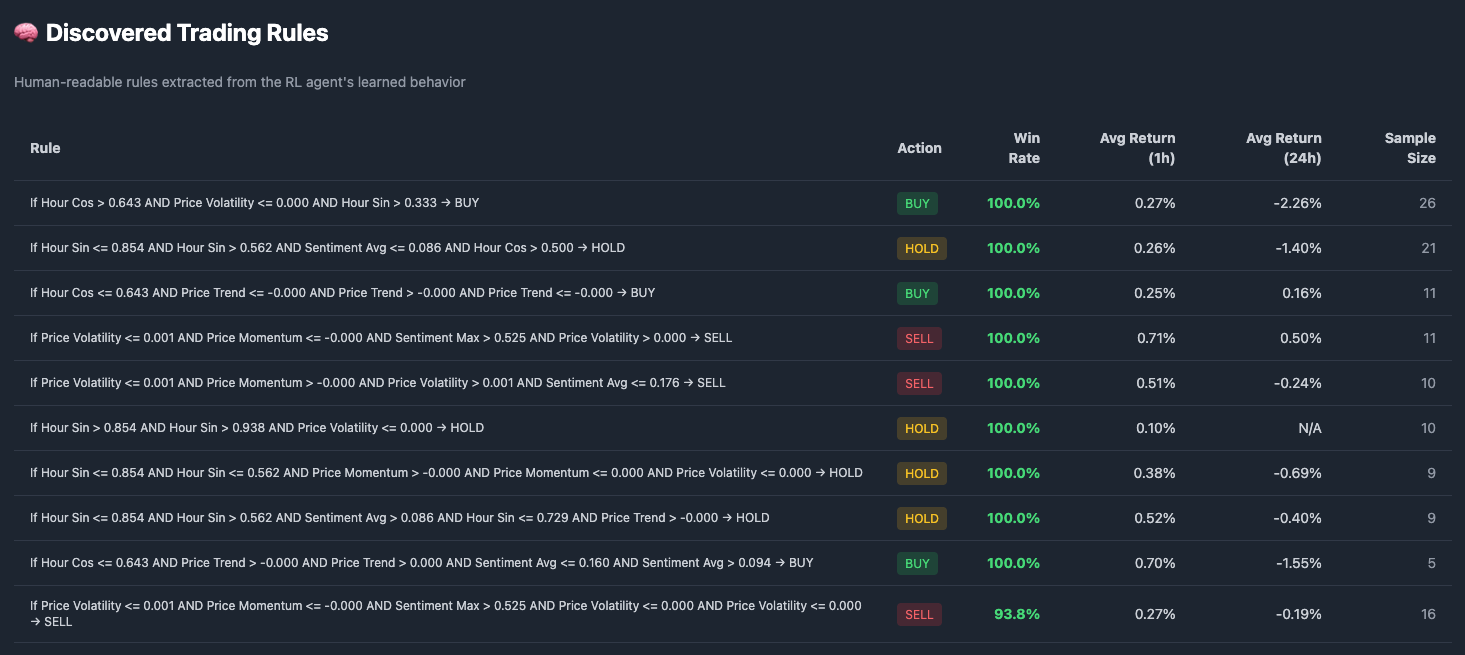
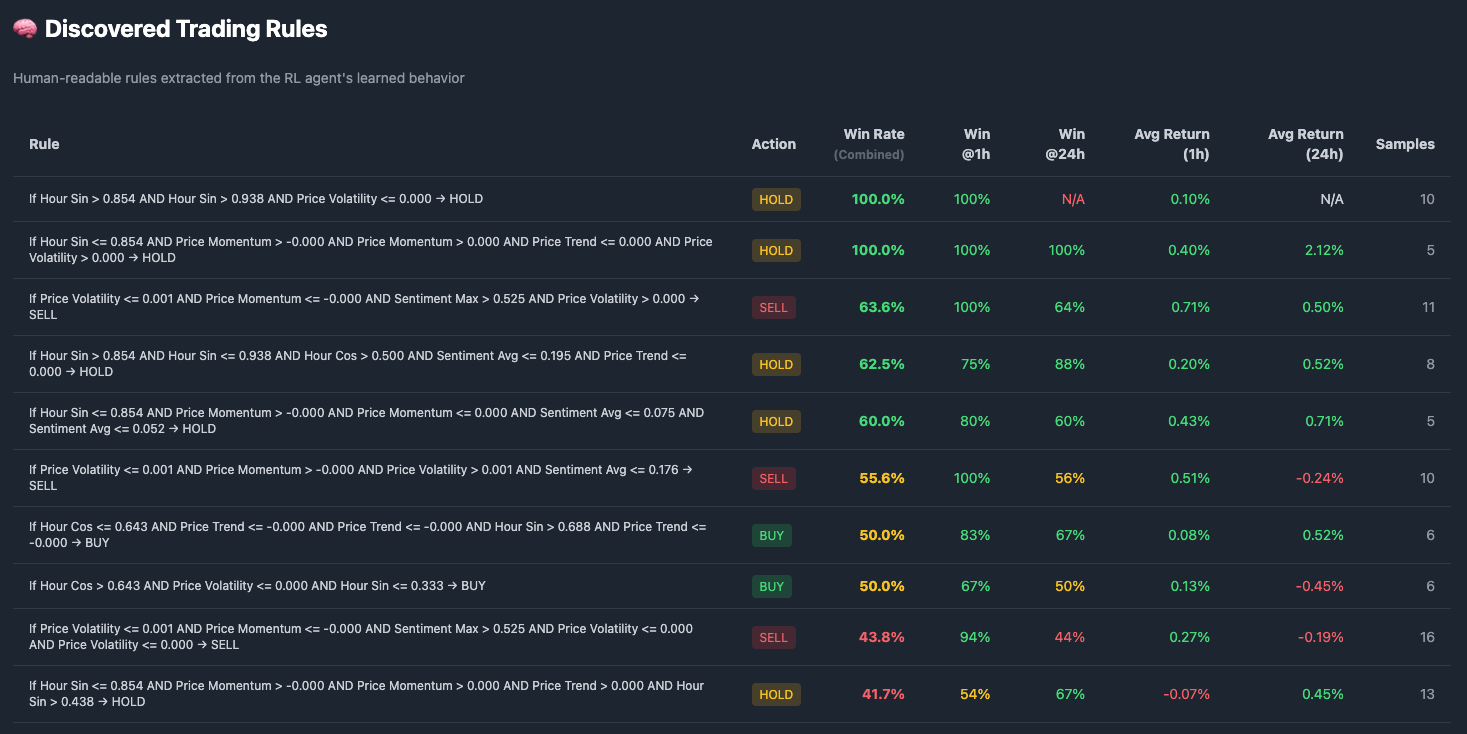
omg fixed so much

diff --git a/templates/sol_tracker.html b/templates/sol_tracker.html
@@ -1678,15 +1678,17 @@
                   <tr class="border-b border-gray-700">
                     <th class="text-left py-3 px-4 text-gray-300">Rule</th>
                     <th class="text-left py-3 px-4 text-gray-300">Action</th>
-                    <th class="text-right py-3 px-4 text-gray-300">Win Rate</th>
+                    <th class="text-right py-3 px-4 text-gray-300" title="Win rate at BOTH 1h AND 24h (must profit at both horizons)">Win Rate<br><span class="text-xs text-gray-500">(Combined)</span></th>
+                    <th class="text-right py-3 px-4 text-gray-300">Win @1h</th>
+                    <th class="text-right py-3 px-4 text-gray-300">Win @24h</th>
                     <th class="text-right py-3 px-4 text-gray-300">Avg Return (1h)</th>
                     <th class="text-right py-3 px-4 text-gray-300">Avg Return (24h)</th>
-                    <th class="text-right py-3 px-4 text-gray-300">Sample Size</th>
+                    <th class="text-right py-3 px-4 text-gray-300">Samples</th>
                   </tr>
                 </thead>
                 <tbody id="rules-tbody">
                   <tr>
-                    <td colspan="6" class="text-center py-8 text-gray-400">Loading rules...</td>
+                    <td colspan="8" class="text-center py-8 text-gray-400">Loading rules...</td>
                   </tr>
                 </tbody>
               </table>
@@ -3168,14 +3170,24 @@
                           }
                       }
                       
-                      tbody.innerHTML = `<tr><td colspan="6" class="text-center py-8 text-gray-400">${diagnosticMsg}</td></tr>`;
+                      tbody.innerHTML = `<tr><td colspan="8" class="text-center py-8 text-gray-400">${diagnosticMsg}</td></tr>`;
                       return;
                   }
                   
                   let html = '';
                   data.rules.forEach(rule => {
+                      // Combined win rate color (must profit at BOTH 1h AND 24h)
                       const winRateColor = rule.win_rate >= 0.6 ? 'text-green-400' : 
                                           rule.win_rate >= 0.5 ? 'text-yellow-400' : 'text-red-400';
+                      // 1h win rate color
+                      const winRate1hColor = rule.win_rate_1h >= 0.6 ? 'text-green-400' : 
+                                            rule.win_rate_1h >= 0.5 ? 'text-yellow-400' : 'text-red-400';
+                      // 24h win rate color
+                      const winRate24hColor = rule.win_rate_24h >= 0.6 ? 'text-green-400' : 
+                                             rule.win_rate_24h >= 0.5 ? 'text-yellow-400' : 'text-red-400';
+                      // Return colors (green if positive, red if negative)
+                      const return1hColor = rule.avg_return_1h > 0 ? 'text-green-400' : rule.avg_return_1h < 0 ? 'text-red-400' : 'text-gray-300';
+                      const return24hColor = rule.avg_return_24h > 0 ? 'text-green-400' : rule.avg_return_24h < 0 ? 'text-red-400' : 'text-gray-300';
                       
                       html += `
                         <tr class="border-b border-gray-700 hover:bg-gray-700/30">
@@ -3187,9 +3199,11 @@
                               'bg-yellow-500/20 text-yellow-400'
                             }">${rule.action}</span>
                           </td>
-                          <td class="py-3 px-4 text-right ${winRateColor} font-bold">${(rule.win_rate * 100).toFixed(1)}%</td>
-                          <td class="py-3 px-4 text-right text-gray-300">${rule.avg_return_1h !== null ? (rule.avg_return_1h * 100).toFixed(2) + '%' : 'N/A'}</td>
-                          <td class="py-3 px-4 text-right text-gray-300">${rule.avg_return_24h !== null ? (rule.avg_return_24h * 100).toFixed(2) + '%' : 'N/A'}</td>
+                          <td class="py-3 px-4 text-right ${winRateColor} font-bold" title="Profitable at BOTH 1h AND 24h">${(rule.win_rate * 100).toFixed(1)}%</td>
+                          <td class="py-3 px-4 text-right ${winRate1hColor} text-sm">${rule.win_rate_1h !== null ? (rule.win_rate_1h * 100).toFixed(0) + '%' : 'N/A'}</td>
+                          <td class="py-3 px-4 text-right ${winRate24hColor} text-sm">${rule.win_rate_24h !== null ? (rule.win_rate_24h * 100).toFixed(0) + '%' : 'N/A'}</td>
+                          <td class="py-3 px-4 text-right ${return1hColor}">${rule.avg_return_1h !== null ? (rule.avg_return_1h * 100).toFixed(2) + '%' : 'N/A'}</td>
+                          <td class="py-3 px-4 text-right ${return24hColor}">${rule.avg_return_24h !== null ? (rule.avg_return_24h * 100).toFixed(2) + '%' : 'N/A'}</td>
                           <td class="py-3 px-4 text-right text-gray-400">${rule.sample_size || 0}</td>
                         </tr>
                       `;
@@ -3201,14 +3215,14 @@
                   console.error('RL rules API error:', data.error);
                   const tbody = document.getElementById('rules-tbody');
                   if (tbody) {
-                      tbody.innerHTML = `<tr><td colspan="6" class="text-center py-8 text-red-400">Error: ${data.error || 'Unknown error'}</td></tr>`;
+                      tbody.innerHTML = `<tr><td colspan="8" class="text-center py-8 text-red-400">Error: ${data.error || 'Unknown error'}</td></tr>`;
                   }
               }
           } catch (error) {
               console.error('Error fetching discovered rules:', error);
               const tbody = document.getElementById('rules-tbody');
               if (tbody) {
-                  tbody.innerHTML = '<tr><td colspan="6" class="text-center py-8 text-red-400">Error loading rules. Check console for details.</td></tr>';
+                  tbody.innerHTML = '<tr><td colspan="8" class="text-center py-8 text-red-400">Error loading rules. Check console for details.</td></tr>';
               }
           }
       }

diff --git a/rl_agent/explainability.py b/rl_agent/explainability.py
@@ -202,16 +202,35 @@ class RuleExtractor:
                     rule_mask = self._evaluate_rule(rule, action_features)
                     if rule_mask.sum() > 0:
                         rule_outcomes = action_outcomes_1h[rule_mask]
-                        # Convert numpy types to native Python types for SQLite
-                        rule['win_rate'] = float((rule_outcomes > threshold).mean())
-                        rule['avg_return_1h'] = float(rule_outcomes.mean())
-                        rule['sample_size'] = int(rule_mask.sum())
-                        # Only include 24h return if available
                         rule_24h_outcomes = action_outcomes_24h[rule_mask]
                         valid_24h = rule_24h_outcomes[~np.isnan(rule_24h_outcomes)]
+                        
+                        # Convert numpy types to native Python types for SQLite
+                        win_rate_1h = float((rule_outcomes > threshold).mean())
+                        rule['avg_return_1h'] = float(rule_outcomes.mean())
+                        rule['sample_size'] = int(rule_mask.sum())
+                        
+                        # Calculate 24h win rate and return
                         if len(valid_24h) > 0:
+                            win_rate_24h = float((valid_24h > threshold).mean())
                             rule['avg_return_24h'] = float(valid_24h.mean())
+                            # Combined win rate: positive return at BOTH 1h AND 24h
+                            # This is the TRUE win rate - only a "win" if profitable at both horizons
+                            both_positive = (rule_outcomes > threshold) & (~np.isnan(rule_24h_outcomes)) & (rule_24h_outcomes > threshold)
+                            valid_for_combined = (~np.isnan(rule_24h_outcomes)).sum()
+                            if valid_for_combined > 0:
+                                combined_win_rate = float(both_positive.sum() / valid_for_combined)
+                            else:
+                                combined_win_rate = win_rate_1h  # Fallback to 1h only
+                            # Use combined win rate as the primary "win_rate" - this is honest
+                            rule['win_rate'] = combined_win_rate
+                            rule['win_rate_1h'] = win_rate_1h
+                            rule['win_rate_24h'] = win_rate_24h
                         else:
+                            # No 24h data - use 1h win rate but mark it
+                            rule['win_rate'] = win_rate_1h
+                            rule['win_rate_1h'] = win_rate_1h
+                            rule['win_rate_24h'] = None
                             rule['avg_return_24h'] = None
                 
                 all_rules.extend(rules_1h)
@@ -358,7 +377,7 @@ class RuleExtractor:
         conn = sqlite3.connect(self.db_path)
         cursor = conn.cursor()
         
-        # Ensure discovered_rules table exists
+        # Ensure discovered_rules table exists with win_rate_1h and win_rate_24h columns
         cursor.execute("""
             CREATE TABLE IF NOT EXISTS discovered_rules (
                 id INTEGER PRIMARY KEY AUTOINCREMENT,
@@ -366,6 +385,8 @@ class RuleExtractor:
                 rule_conditions TEXT,
                 action TEXT NOT NULL,
                 win_rate REAL,
+                win_rate_1h REAL,
+                win_rate_24h REAL,
                 avg_return_1h REAL,
                 avg_return_24h REAL,
                 sample_size INTEGER,
@@ -375,6 +396,16 @@ class RuleExtractor:
                 last_validated_at DATETIME
             )
         """)
+        
+        # Add new columns if they don't exist (for existing tables)
+        try:
+            cursor.execute("ALTER TABLE discovered_rules ADD COLUMN win_rate_1h REAL")
+        except sqlite3.OperationalError:
+            pass  # Column already exists
+        try:
+            cursor.execute("ALTER TABLE discovered_rules ADD COLUMN win_rate_24h REAL")
+        except sqlite3.OperationalError:
+            pass  # Column already exists
         
         cursor.execute("""
             CREATE INDEX IF NOT EXISTS idx_rules_action 
@@ -390,14 +421,17 @@ class RuleExtractor:
             cursor.execute("""
                 INSERT INTO discovered_rules (
                     rule_text, rule_conditions, action,
-                    win_rate, avg_return_1h, avg_return_24h, sample_size,
+                    win_rate, win_rate_1h, win_rate_24h,
+                    avg_return_1h, avg_return_24h, sample_size,
                     created_at
-                ) VALUES (?, ?, ?, ?, ?, ?, ?, CURRENT_TIMESTAMP)
+                ) VALUES (?, ?, ?, ?, ?, ?, ?, ?, ?, CURRENT_TIMESTAMP)
             """, (
                 rule.get('rule_text', ''),
                 json.dumps(rule.get('rule_conditions', [])),
                 rule.get('action', ''),
-                rule.get('win_rate'),
+                rule.get('win_rate'),  # Combined win rate (positive at both 1h AND 24h)
+                rule.get('win_rate_1h'),  # Win rate at 1h only
+                rule.get('win_rate_24h'),  # Win rate at 24h only
                 rule.get('avg_return_1h'),
                 rule.get('avg_return_24h'),
                 rule.get('sample_size'),
@@ -449,7 +483,8 @@ class RuleExtractor:
         query = """
             SELECT 
                 id, rule_text, rule_conditions, action,
-                win_rate, avg_return_1h, avg_return_24h, sample_size,
+                win_rate, win_rate_1h, win_rate_24h,
+                avg_return_1h, avg_return_24h, sample_size,
                 confidence_interval_lower, confidence_interval_upper,
                 created_at, last_validated_at
             FROM discovered_rules
@@ -484,14 +519,16 @@ class RuleExtractor:
                 'rule_text': row[1],
                 'rule_conditions': rule_conditions,
                 'action': row[3],
-                'win_rate': row[4],
-                'avg_return_1h': row[5],
-                'avg_return_24h': row[6],
-                'sample_size': row[7],
-                'confidence_interval_lower': row[8],
-                'confidence_interval_upper': row[9],
-                'created_at': row[10],
-                'last_validated_at': row[11],
+                'win_rate': row[4],  # Combined win rate (positive at both 1h AND 24h)
+                'win_rate_1h': row[5],  # Win rate at 1h horizon
+                'win_rate_24h': row[6],  # Win rate at 24h horizon
+                'avg_return_1h': row[7],
+                'avg_return_24h': row[8],
+                'sample_size': row[9],
+                'confidence_interval_lower': row[10],
+                'confidence_interval_upper': row[11],
+                'created_at': row[12],
+                'last_validated_at': row[13],
             })
         
         return rules
